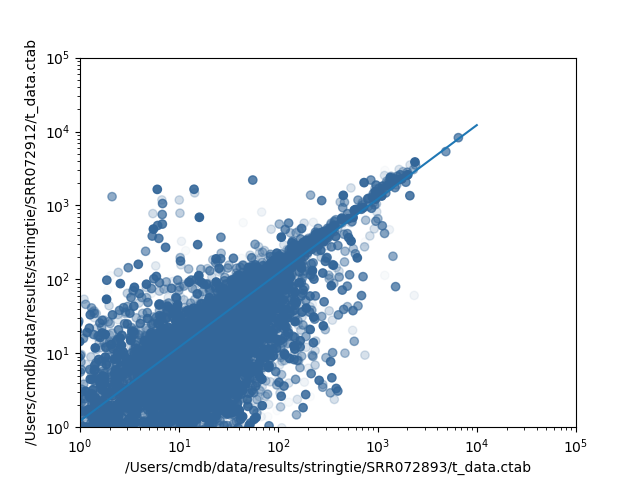
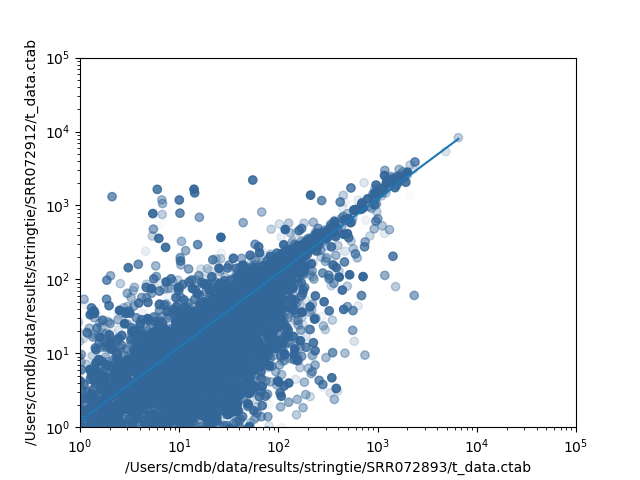
Aded variable bound to linspace

diff --git a/day4-lunch/03-plot.py b/day4-lunch/03-plot.py
@@ -17,10 +17,6 @@ tx_fpkms2 = []
 fpkms1 = pd.read_csv(sys.argv[1], sep = "\t", index_col = "t_name").loc[:,"FPKM"]
 fpkms2 = pd.read_csv(sys.argv[2], sep = "\t", index_col = "t_name").loc[:,"FPKM"]
 
-	
-
-
-
 
 fig, ax = plt.subplots()
 
@@ -40,7 +36,7 @@ plt.xlim(1, 10**5)
 
 z = np.polyfit(x, y, 1)
 f = np.poly1d(z)
-x1 = np.linspace(0,10000)
+x1 = np.linspace(0,fpkms1.max())
 plt.plot(x1, f(x1))
 
 fig.savefig("scatter.png")
